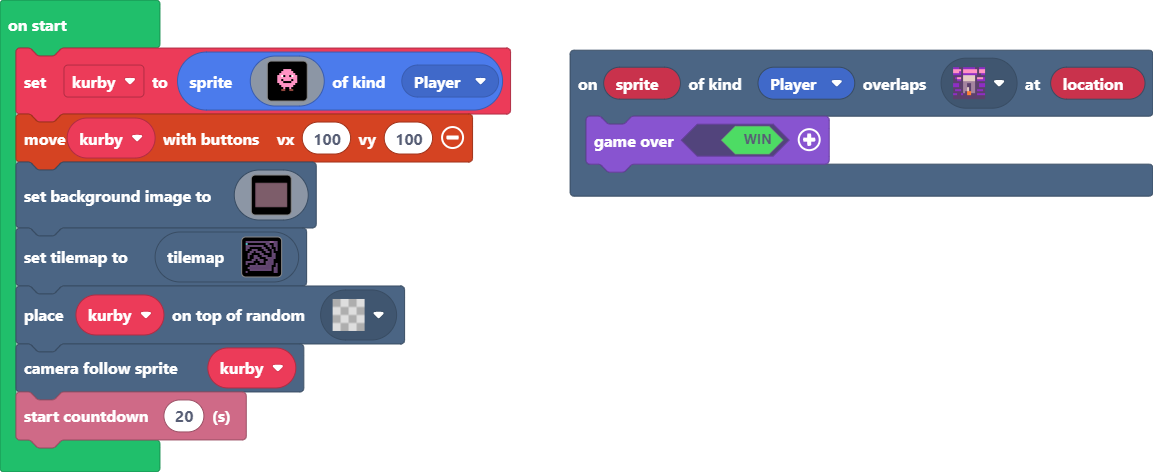
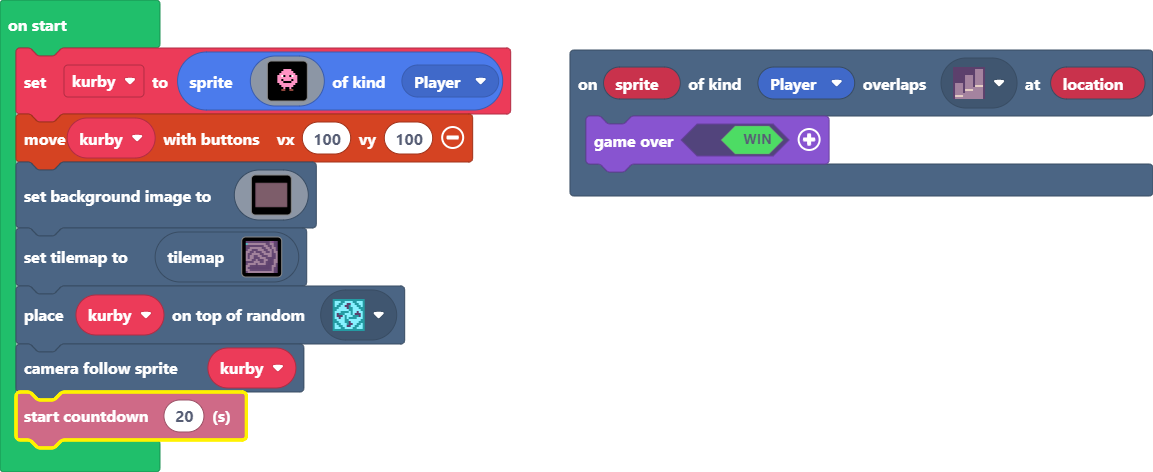
Update main.blocks, main.ts, tilemap.g.jres, tilemap.g.ts

diff --git a/tilemap.g.ts b/tilemap.g.ts
@@ -25,7 +25,7 @@ namespace myTiles {
 . . . . . . . . . . . . . . . . 
 `, [myTiles.transparency16], TileScale.Sixteen);
             case "level1":
[2 lines of base64/hex data omitted]
 2 2 2 2 2 2 2 2 2 2 2 2 . 2 2 2 
 . . . . . . . . . . 2 2 . . 2 2 
 2 2 2 2 2 2 2 2 2 . . 2 2 . 2 2 
@@ -42,7 +42,7 @@ namespace myTiles {
 . 2 2 2 2 2 2 2 2 2 2 2 2 . 2 2 
 . . 2 2 2 2 2 2 2 2 2 2 2 . 2 2 
 2 . . . . . . . . . . . . . 2 2 
-`, [myTiles.transparency16,sprites.dungeon.darkGroundCenter,sprites.dungeon.stairLarge,sprites.dungeon.collectibleInsignia,sprites.dungeon.darkGroundNorth,sprites.dungeon.darkGroundNorthWest0,sprites.dungeon.darkGroundSouth,sprites.dungeon.darkGroundSouthWest0,sprites.dungeon.darkGroundNorthEast0,sprites.dungeon.darkGroundSouthEast0,sprites.dungeon.darkGroundWest,sprites.dungeon.darkGroundEast,sprites.dungeon.purpleSwitchUp], TileScale.Sixteen);
+`, [myTiles.transparency16,sprites.dungeon.darkGroundCenter,sprites.dungeon.stairLarge,sprites.dungeon.collectibleInsignia,sprites.dungeon.darkGroundNorth,sprites.dungeon.darkGroundNorthWest0,sprites.dungeon.darkGroundSouth,sprites.dungeon.darkGroundSouthWest0,sprites.dungeon.darkGroundNorthEast0,sprites.dungeon.darkGroundSouthEast0,sprites.dungeon.darkGroundWest,sprites.dungeon.darkGroundEast,sprites.dungeon.purpleSwitchUp,sprites.dungeon.floorDark0], TileScale.Sixteen);
         }
         return null;
     })

diff --git a/main.ts b/main.ts
@@ -1,10 +1,10 @@
-scene.onOverlapTile(SpriteKind.Player, sprites.dungeon.purpleSwitchDown, function (sprite, location) {
+scene.onOverlapTile(SpriteKind.Player, sprites.dungeon.stairLarge, function (sprite, location) {
     game.over(true)
 })
 let kurby = sprites.create(assets.image`kurby`, SpriteKind.Player)
 controller.moveSprite(kurby, 100, 100)
 scene.setBackgroundImage(assets.image`Background liso`)
 tiles.setCurrentTilemap(tilemap`level1`)
-tiles.placeOnRandomTile(kurby, assets.tile`transparency16`)
+tiles.placeOnRandomTile(kurby, sprites.dungeon.collectibleInsignia)
 scene.cameraFollowSprite(kurby)
 info.startCountdown(20)
